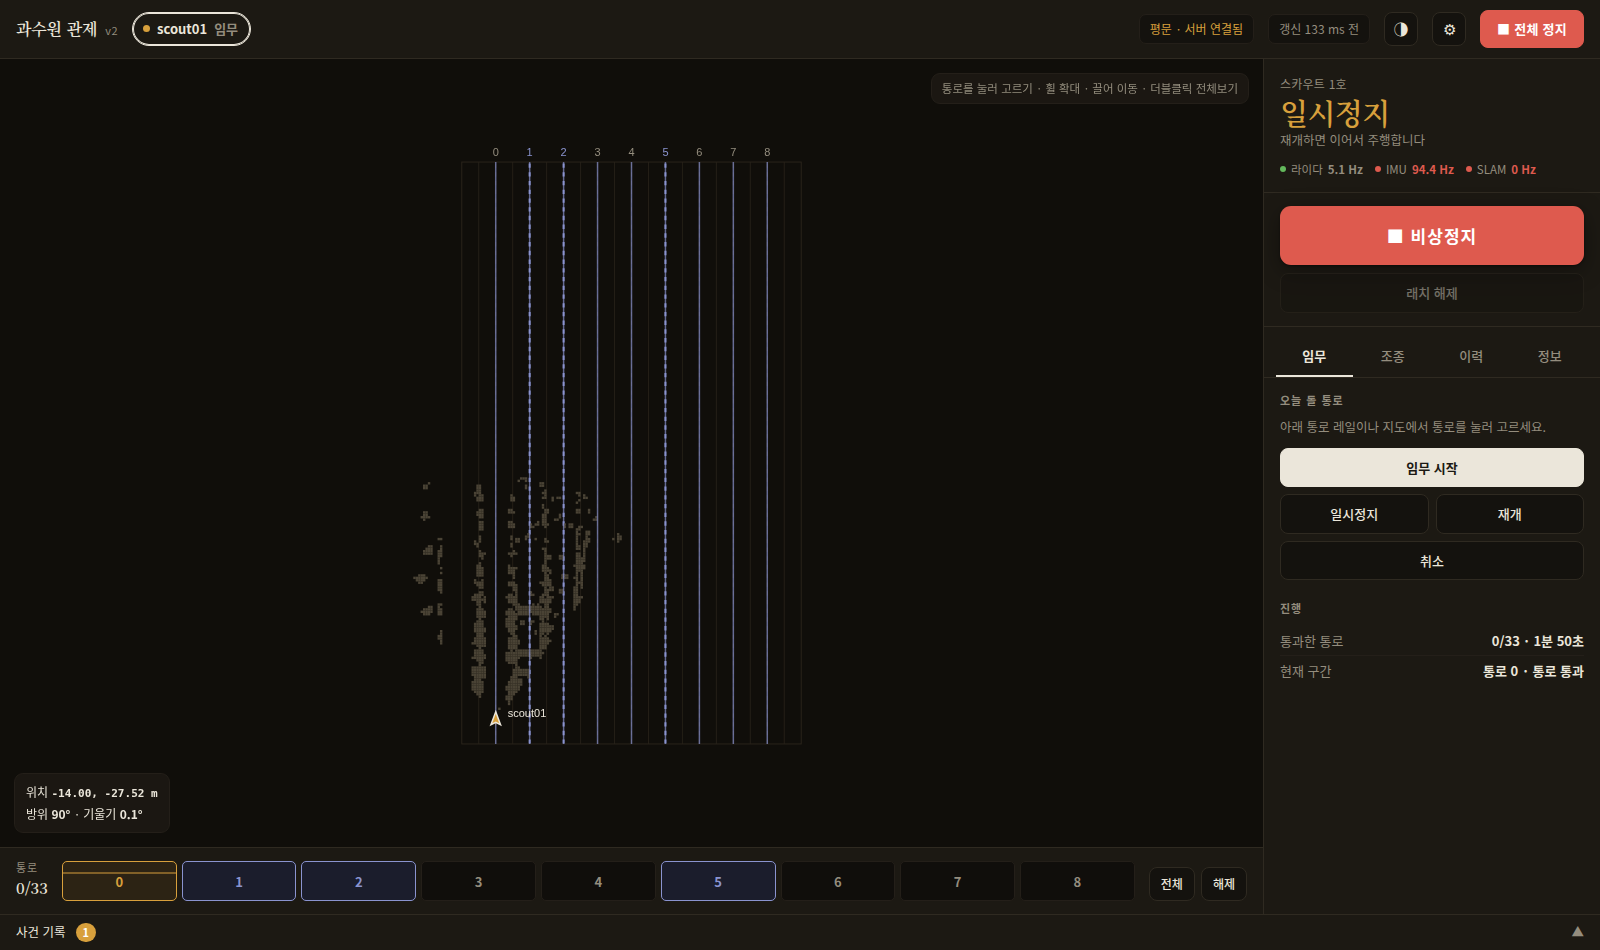
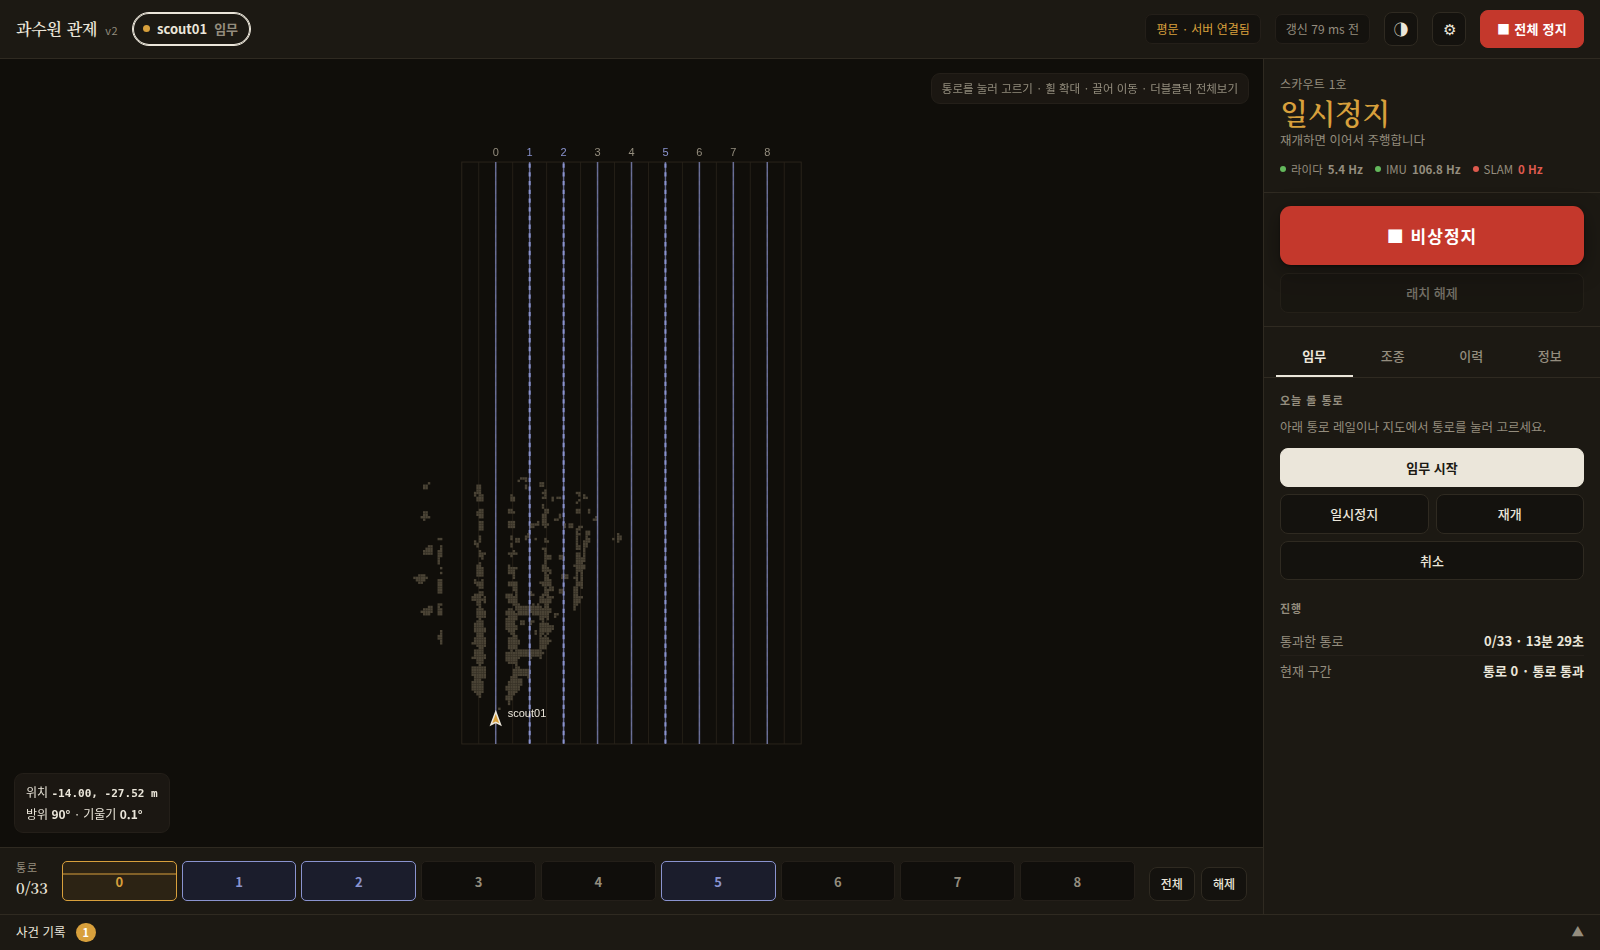
관제 화면 명암비 보정 — 금색·비상정지 버튼 WCAG AA 충족 (22/22)

diff --git a/server/web/index.html b/server/web/index.html
@@ -19,8 +19,9 @@
   --bg:#F0EFE8; --surface:#FBFAF6; --sunk:#E7E5DA;
   --ink:#221E18; --dim:#6E6A60; --line:#DBD8CC; --line-soft:#E6E3D8;
   --leaf:#2E6B37; --leaf-soft:#DFEBDC;
-  --gold:#A9741A; --gold-soft:#F4E7CC;
-  --danger:#A62A21; --danger-soft:#F5DEDA;
+  /* 금색은 작은 글자(통로 번호·경고)에도 쓰이므로 WCAG AA 4.5:1 을 넘도록 어둡게 잡았다 */
+  --gold:#8A5D12; --gold-soft:#F4E7CC;
+  --danger:#A62A21; --danger-soft:#F5DEDA; --danger-btn:#A62A21;
   --plan:#4C5B8C; --plan-soft:#E2E4F0;
   --shadow:0 1px 2px rgba(34,30,24,.06), 0 6px 20px rgba(34,30,24,.05);
   --canvas:#E9E7DD; --canvas-row:#D3D0C2; --canvas-alley:#C8C4B4;
@@ -33,7 +34,8 @@
   --ink:#EBE6DA; --dim:#948D7E; --line:#2F2A21; --line-soft:#241F19;
   --leaf:#63B85C; --leaf-soft:#1B2A19;
   --gold:#D8A03C; --gold-soft:#2C2314;
-  --danger:#DE5A4E; --danger-soft:#2E1815;
+  /* 어두운 화면에서 밝은 빨강 위 흰 글자는 3.7:1 로 미달이라, 버튼 배경만 따로 진하게 */
+  --danger:#DE5A4E; --danger-soft:#2E1815; --danger-btn:#C4382C;
   --plan:#8A93CF; --plan-soft:#1B1D2C;
   --shadow:0 1px 2px rgba(0,0,0,.4), 0 6px 22px rgba(0,0,0,.35);
   --canvas:#100E0A; --canvas-row:#241F17; --canvas-alley:#2C261C;
@@ -94,7 +96,7 @@ header{
 }
 .iconbtn:hover{border-color:var(--dim)}
 #allstop{
-  background:var(--danger); border:1px solid var(--danger); color:#fff;
+  background:var(--danger-btn); border:1px solid var(--danger-btn); color:#fff;
   font-weight:600; padding:8px 16px; border-radius:8px; cursor:pointer;
   letter-spacing:.02em; font-size:13px;
 }
@@ -178,7 +180,7 @@ aside{
 .estopwrap{padding:13px 16px; border-bottom:1px solid var(--line)}
 #estop{
   width:100%; padding:17px; font-size:17px; font-weight:700; letter-spacing:.06em;
-  background:var(--danger); color:#fff; border:none; border-radius:11px; cursor:pointer;
+  background:var(--danger-btn); color:#fff; border:none; border-radius:11px; cursor:pointer;
   box-shadow:var(--shadow);
 }
 #estop:hover{filter:brightness(1.08)}
